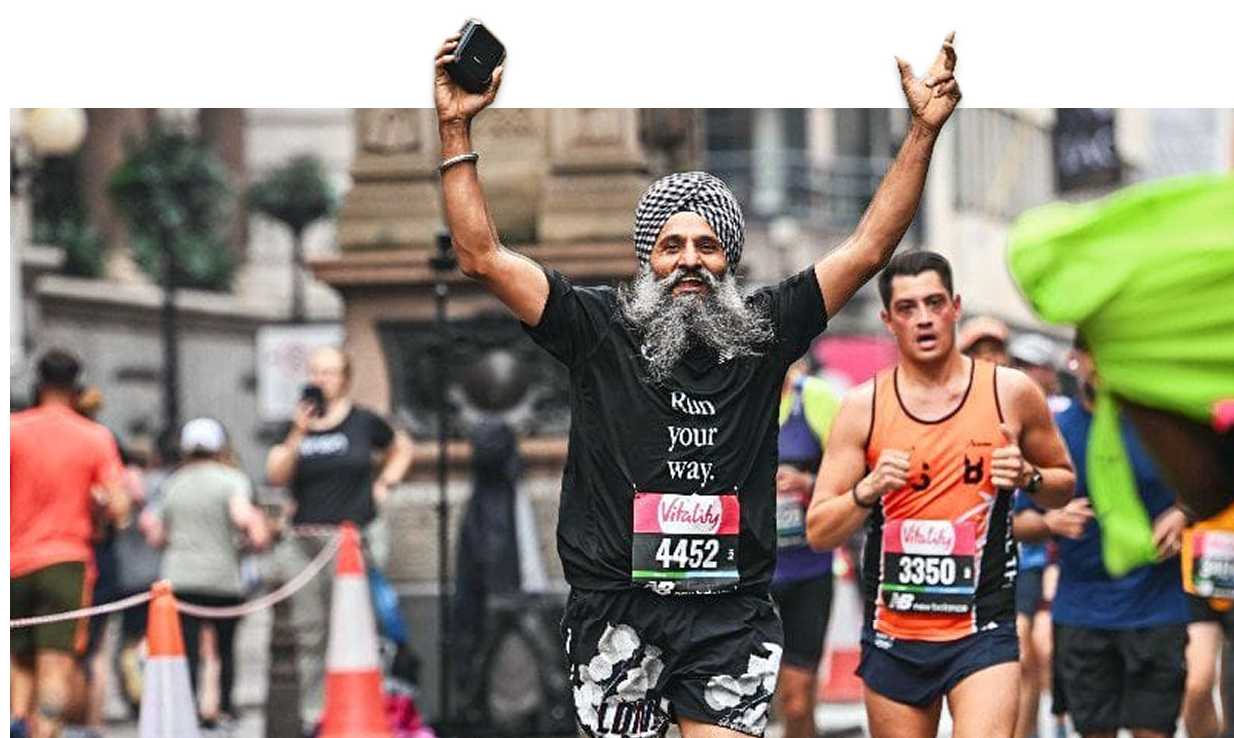
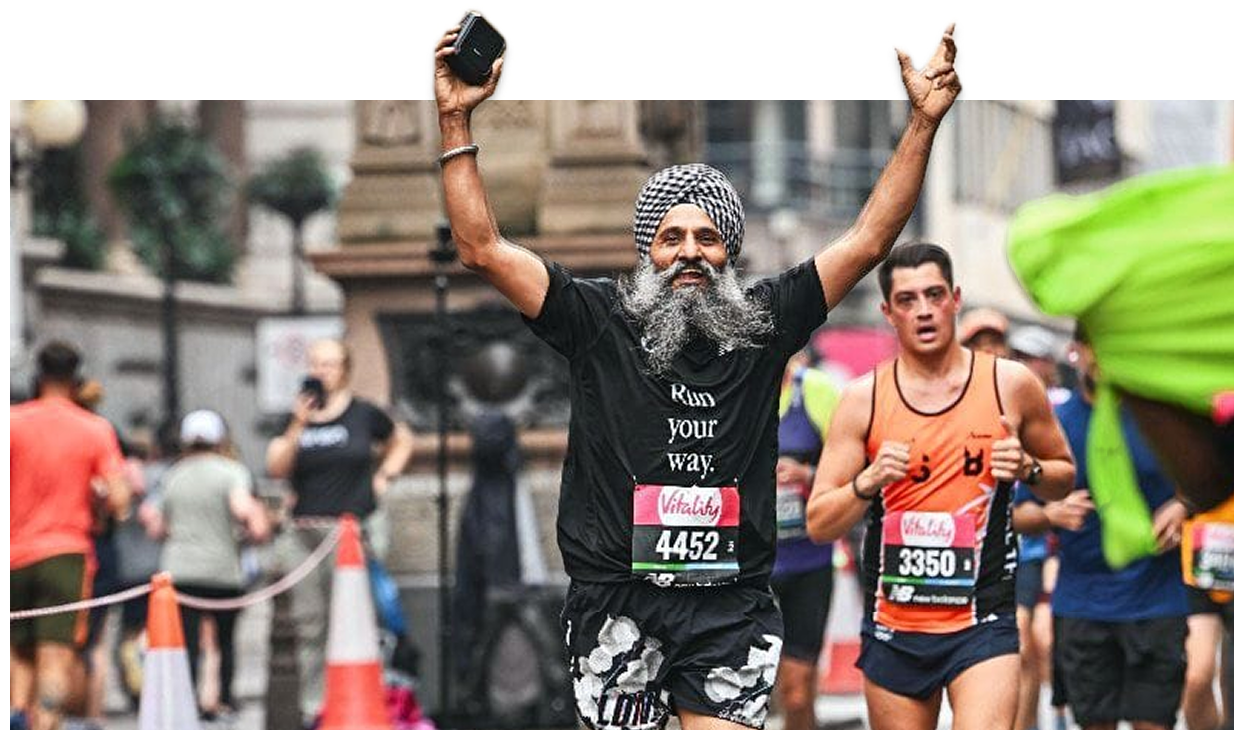
fix: fixed-height Join CTA image with x-axis clipping
- Swap in the designer's cropped runner image (1234×730) with a
  thin 12px transparent band — opaque runner content starts at y=12.
- Replace object-contain/fill approach with a fixed-pixel image
  height (380px mobile / 400px desktop) and natural width so the
  runner is never squashed as the viewport width changes.
- Image is absolutely positioned, bottom-aligned with the card
  bottom, horizontally centred; because its height exceeds the
  card, the hands naturally protrude above the top edge.
- Image column uses overflow-x-clip so the auto-sized image can't
  bleed sideways into the text column while still allowing the
  top-edge breakout (overflow-x-clip permits overflow-y: visible).

diff --git a/src/components/sections/join-cta-section.tsx b/src/components/sections/join-cta-section.tsx
@@ -33,17 +33,16 @@ export function JoinCtaSection({
     <section className={cn("pt-24 pb-10 md:pt-32 md:pb-14", className)}>
       <div className="container mx-auto px-4">
         <div className="relative rounded-2xl bg-secondary md:grid md:grid-cols-[55fr_45fr] md:min-h-[280px]">
-          {/* Image column — anchored to card bottom, extends 120px above the top edge on desktop */}
-          <div className="relative order-first aspect-[5/3] w-full md:order-last md:aspect-auto md:h-full">
+          {/* Image column — fixed-height image anchored to card bottom; hands protrude above the card while x-axis overflow is clipped */}
+          <div className="relative order-first h-[320px] w-full overflow-x-clip md:order-last md:h-full md:min-h-[280px]">
             {imagePath && (
-              <div className="absolute inset-x-0 bottom-0 top-0 md:top-[-120px]">
-                <Image
-                  src={imagePath}
-                  alt={imageAlt}
-                  fill
-                  className="object-contain object-bottom"
-                />
-              </div>
+              <Image
+                src={imagePath}
+                alt={imageAlt}
+                width={1234}
+                height={730}
+                className="absolute bottom-0 left-1/2 h-[380px] w-auto max-w-none -translate-x-1/2 md:h-[400px]"
+              />
             )}
           </div>
 
